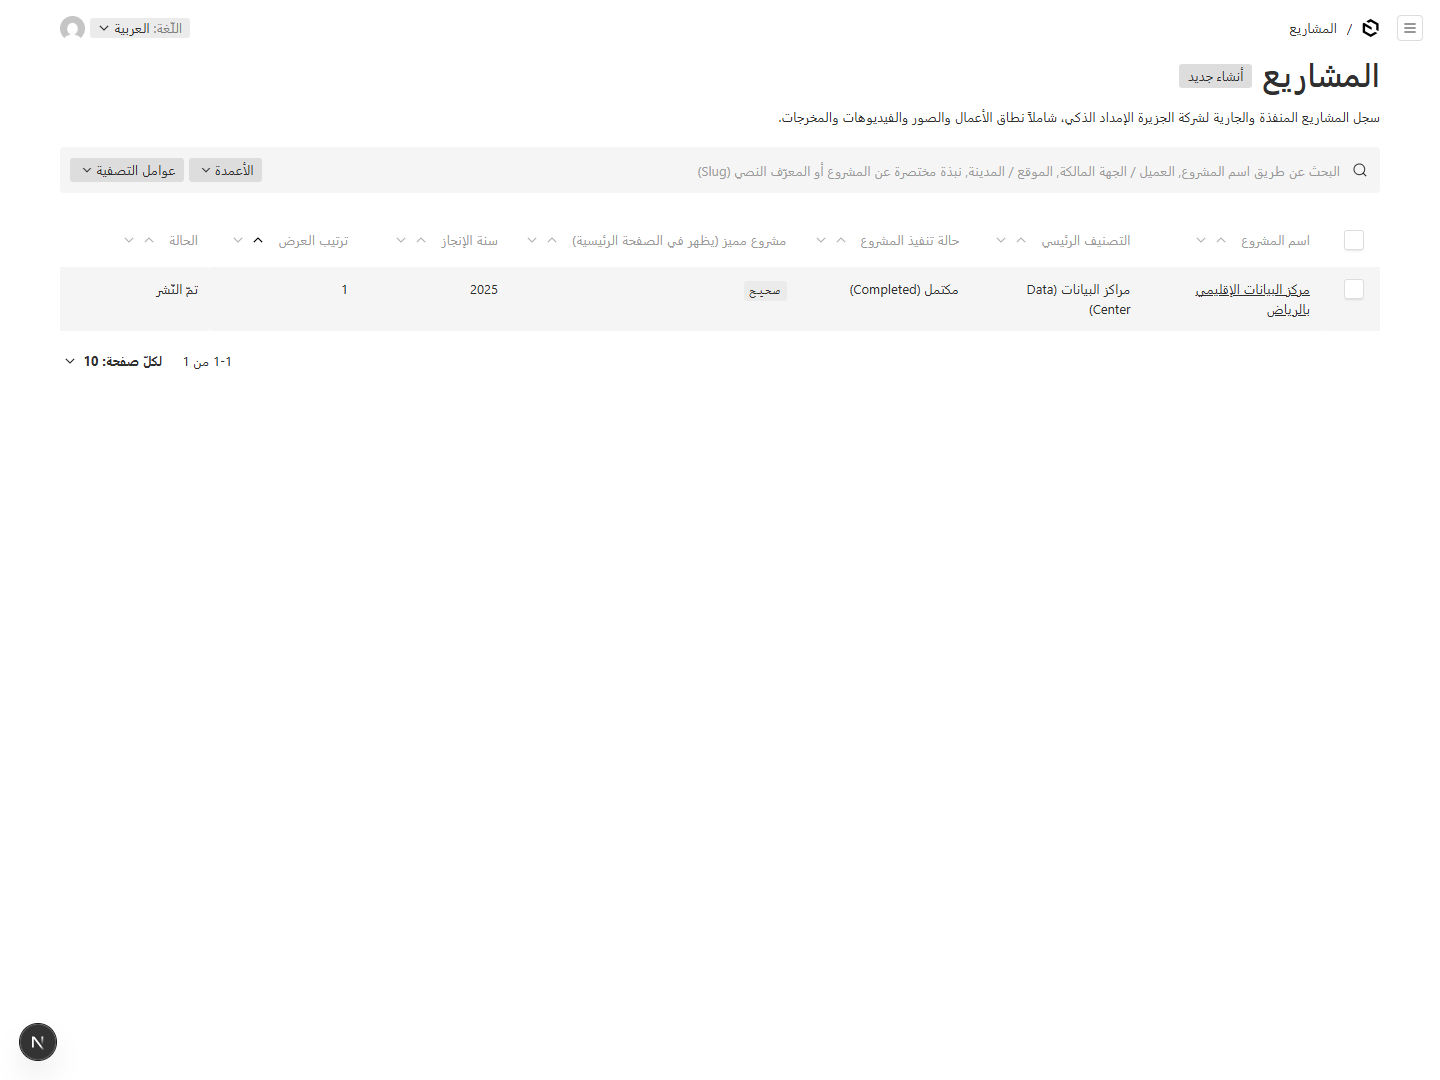
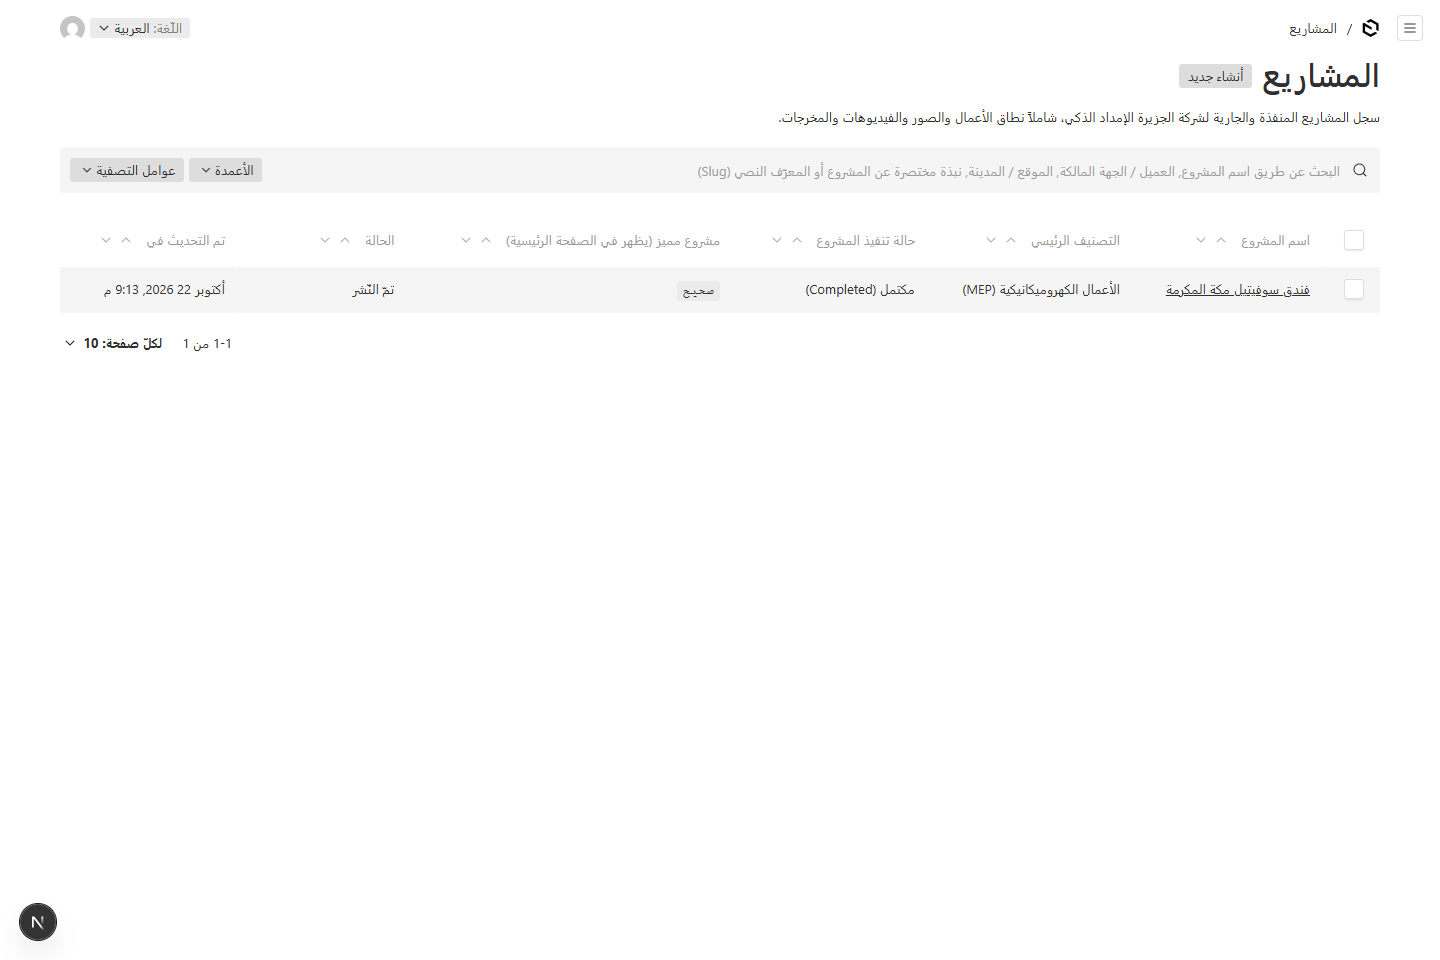
feat(content): align projects defaultColumns and scope revalidation tags for P2-T4

diff --git a/src/collections/Projects.ts b/src/collections/Projects.ts
@@ -217,6 +217,30 @@ const revalidateProjectRelatedAndHomeAfterChange: CollectionAfterChangeHook = ({
       }
     }
 
+    const scopes = new Set<string>()
+    const currentScope = (doc as { scope?: unknown } | undefined)?.scope
+    const prevScope = (previousDoc as { scope?: unknown } | undefined)?.scope
+    if (Array.isArray(currentScope)) {
+      for (const item of currentScope) {
+        if (typeof item === 'string' && item.trim().length > 0) {
+          scopes.add(item.trim())
+        }
+      }
+    }
+    if (Array.isArray(prevScope)) {
+      for (const item of prevScope) {
+        if (typeof item === 'string' && item.trim().length > 0) {
+          scopes.add(item.trim())
+        }
+      }
+    }
+    for (const discipline of scopes) {
+      safeRevalidateTag(`projects:scope:${discipline}`, logger)
+      for (const locale of REVALIDATE_LOCALES) {
+        safeRevalidateTag(`projects:scope:${discipline}:${locale}`, logger)
+      }
+    }
+
     const isFeaturedNow = (doc as { featured?: unknown } | undefined)?.featured === true
     const wasFeaturedBefore = (previousDoc as { featured?: unknown } | undefined)?.featured === true
     if (isFeaturedNow || wasFeaturedBefore) {
@@ -254,6 +278,19 @@ const revalidateProjectRelatedAndHomeAfterDelete: CollectionAfterDeleteHook = ({
       }
     }
 
+    const scopeList = (doc as { scope?: unknown } | undefined)?.scope
+    if (Array.isArray(scopeList)) {
+      for (const item of scopeList) {
+        if (typeof item === 'string' && item.trim().length > 0) {
+          const trimmedScope = item.trim()
+          safeRevalidateTag(`projects:scope:${trimmedScope}`, logger)
+          for (const locale of REVALIDATE_LOCALES) {
+            safeRevalidateTag(`projects:scope:${trimmedScope}:${locale}`, logger)
+          }
+        }
+      }
+    }
+
     if ((doc as { featured?: unknown } | undefined)?.featured === true) {
       safeRevalidateTag('projects:featured', logger)
       for (const locale of REVALIDATE_LOCALES) {
@@ -285,7 +322,7 @@ export const Projects: CollectionConfig = {
   },
   admin: {
     useAsTitle: 'title',
-    defaultColumns: ['title', 'category', 'status', 'featured', 'year', 'order', '_status'],
+    defaultColumns: ['title', 'category', 'status', 'featured', '_status', 'updatedAt'],
     listSearchableFields: ['title', 'client', 'location', 'summary', 'slug'],
     enableRichTextLink: true,
     group: {

diff --git a/tests/int/p2-t4.int.test.ts b/tests/int/p2-t4.int.test.ts
@@ -754,6 +754,7 @@ describe('P2-T4 integration suite (projects)', () => {
         body: {
           title: 'Jeddah Low Current Hospital Network',
           category: 'low-current',
+          scope: ['low-current', 'data-center'],
           location: 'Jeddah',
           featured: false,
           coverImage: uploadedMediaId,
@@ -770,6 +771,8 @@ describe('P2-T4 integration suite (projects)', () => {
           'collection:projects',
           'doc:projects:jeddah-low-current-hospital-network',
           'projects:category:low-current',
+          'projects:scope:low-current',
+          'projects:scope:data-center',
         ]),
       )
       expect(revalidatedTagsNonFeatured).not.toContain('projects:featured')
